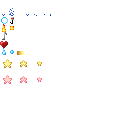
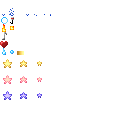
Add builder's wand, bump version to v1.0.5

Changed region(s): [[0.0, 0.7188, 0.0938, 0.7812], [0.2812, 0.7188, 0.3438, 0.7812], [0.1562, 0.7188, 0.2188, 0.7812]]

diff --git a/src/main/java/turniplabs/transfiguration/ItemBuildersWand.java b/src/main/java/turniplabs/transfiguration/ItemBuildersWand.java
@@ -1,0 +1,111 @@
+package turniplabs.transfiguration;
+
+import net.minecraft.src.*;
+import org.lwjgl.input.Keyboard;
+
+public class ItemBuildersWand extends Item {
+    public ItemBuildersWand(int i) {
+        super(i);
+    }
+
+    @Override
+    public void onUpdate(ItemStack itemstack, World world, Entity entity, int i, boolean flag) {
+        double[] firstPosition = itemstack.tag.getDoubleArray("FirstPosition");
+        double[] secondPosition = itemstack.tag.getDoubleArray("SecondPosition");
+
+        if (firstPosition.length > 0) {
+            ItemTransfigurationWand.spawnGoldenStarParticle(world, (int) firstPosition[0], (int) firstPosition[1], (int) firstPosition[2]);
+        }
+
+        if (secondPosition.length > 0) {
+            ItemColorWand.spawnRedStarParticle(world, (int) secondPosition[0], (int) secondPosition[1], (int) secondPosition[2]);
+        }
+
+    }
+
+    @Override
+    public boolean onItemUse(ItemStack itemstack, EntityPlayer entityplayer, World world, int i, int j, int k, int l, double heightPlaced) {
+        int id = world.getBlockId(i, j, k);
+        int metadata = world.getBlockMetadata(i, j, k);
+        Block block = Block.getBlock(id);
+
+        if (Keyboard.isKeyDown(Keyboard.KEY_LMENU)) {
+            itemstack.tag.setDoubleArray("SecondPosition", new double[]{i, j, k});
+        } else if (Keyboard.isKeyDown(Keyboard.KEY_LCONTROL)) {
+            double[] firstPosition = itemstack.tag.getDoubleArray("FirstPosition");
+            double[] secondPosition = itemstack.tag.getDoubleArray("SecondPosition");
+
+            int maxX = (int) Math.max(firstPosition[0], secondPosition[0]);
+            int minX = (int) Math.min(firstPosition[0], secondPosition[0]);
+            int maxY = (int) Math.max(firstPosition[1], secondPosition[1]);
+            int minY = (int) Math.min(firstPosition[1], secondPosition[1]);
+            int maxZ = (int) Math.max(firstPosition[2], secondPosition[2]);
+            int minZ = (int) Math.min(firstPosition[2], secondPosition[2]);
+
+            for (int x = minX; x <= maxX; ++x) {
+                for (int y = minY; y <= maxY; ++y) {
+                    for (int z = minZ; z <= maxZ; ++z) {
+                        world.setBlockAndMetadataWithNotify(x, y, z, id, metadata);
+                        spawnBlueStarParticle(world, x, y, z);
+                        if (block instanceof BlockMagicSand) {
+                            TileEntityMagicSand source = (TileEntityMagicSand) world.getBlockTileEntity(i, j, k);
+                            TileEntityMagicSand destination = (TileEntityMagicSand) world.getBlockTileEntity(x, y, z);
+                            destination.blockId = source.blockId;
+                            destination.blockColor = source.blockColor;
+                        }
+                    }
+                }
+            }
+        } else {
+            itemstack.tag.setDoubleArray("FirstPosition", new double[]{i, j, k});
+        }
+
+        return true;
+    }
+
+    public void spawnBlueStarParticle(World world, int i, int j, int k) {
+        double a = Math.random() - 0.5;
+        double b = Math.random() - 0.5;
+
+        double x;
+        double y;
+        double z;
+
+        if (world.getBlockId(i, j+1, k) == 0) {
+            x = a;
+            y = 0.6;
+            z = b;
+            world.spawnParticle("bluestar", i+.5 + x, j+.5 + y, k+.5 + z, 0, 0, 0);
+        }
+        if (world.getBlockId(i, j-1, k) == 0) {
+            x = a;
+            y = -0.6;
+            z = b;
+            world.spawnParticle("bluestar", i+.5 + x, j+.5 + y, k+.5 + z, 0, 0, 0);
+        }
+        if (world.getBlockId(i+1, j, k) == 0) {
+            x = 0.6;
+            y = a;
+            z = b;
+            world.spawnParticle("bluestar", i+.5 + x, j+.5 + y, k+.5 + z, 0, 0, 0);
+        }
+        if (world.getBlockId(i-1, j, k) == 0) {
+            x = -0.6;
+            y = a;
+            z = b;
+            world.spawnParticle("bluestar", i+.5 + x, j+.5 + y, k+.5 + z, 0, 0, 0);
+        }
+        if (world.getBlockId(i, j, k+1) == 0) {
+            x = a;
+            y = b;
+            z = 0.6;
+            world.spawnParticle("bluestar", i+.5 + x, j+.5 + y, k+.5 + z, 0, 0, 0);
+        }
+        if (world.getBlockId(i, j, k-1) == 0) {
+            x = a;
+            y = b;
+            z = -0.6;
+            world.spawnParticle("bluestar", i+.5 + x, j+.5 + y, k+.5 + z, 0, 0, 0);
+        }
+    }
+}

diff --git a/src/main/java/turniplabs/transfiguration/EntityBlueStarFX.java b/src/main/java/turniplabs/transfiguration/EntityBlueStarFX.java
@@ -1,0 +1,58 @@
+package turniplabs.transfiguration;
+
+import net.minecraft.src.EntityFX;
+import net.minecraft.src.Tessellator;
+import net.minecraft.src.World;
+import org.lwjgl.opengl.GL11;
+
+public class EntityBlueStarFX extends EntityFX {
+    public EntityBlueStarFX(World world, double x, double y, double z, double motionX, double motionY, double motionZ) {
+        super(world, x, y, z, motionX, motionY, motionZ);
+        this.particleMaxAge = 12;
+        this.particleScale = 2;
+        this.motionX = (Math.random() * 2.0D - 1.0D) * 0.01F;
+        this.motionY = (Math.random() * 2.0D - 1.0D) * 0.01F;
+        this.motionZ = (Math.random() * 2.0D - 1.0D) * 0.01F;
+    }
+
+    @Override
+    public float getEntityBrightness(float f) {
+        return 1f;
+    }
+
+    @Override
+    public void renderParticle(Tessellator tessellator, float f, float f1, float f2, float f3, float f4, float f5) {
+        int x = 0;
+        if (particleAge >= 3) {
+            x = 1;
+        }
+        if (particleAge >= 6) {
+            x = 2;
+        }
+        int y = 11;
+        this.particleTextureIndex = y * 16 + x * 2;
+
+        float pointX = (float)(this.particleTextureIndex % 16) / 16.0F;
+        float pointX2 = pointX + 0.0624375F * 2;
+        float pointY = (float)(this.particleTextureIndex / 16) / 16.0F;
+        float pointY2 = pointY + 0.0624375F * 2;
+        float scale = 0.1F * this.particleScale;
+        float posX = (float)(this.prevPosX + (this.posX - this.prevPosX) * (double)f - interpPosX);
+        float posY = (float)(this.prevPosY + (this.posY - this.prevPosY) * (double)f - interpPosY);
+        float posZ = (float)(this.prevPosZ + (this.posZ - this.prevPosZ) * (double)f - interpPosZ);
+        float opacity = 1f;
+        if (particleAge >= 9) {
+            opacity = (float)(particleMaxAge - particleAge) / 3f;
+        }
+
+        GL11.glEnable(GL11.GL_BLEND);
+        GL11.glBlendFunc(GL11.GL_SRC_ALPHA, GL11.GL_ONE_MINUS_SRC_ALPHA);
+
+        tessellator.setColorRGBA_F(this.particleRed, this.particleGreen, this.particleBlue, opacity);
+        tessellator.addVertexWithUV(posX - f1 * scale - f4 * scale, posY - f2 * scale, posZ - f3 * scale - f5 * scale, pointX2, pointY2);
+        tessellator.addVertexWithUV(posX - f1 * scale + f4 * scale, posY + f2 * scale, posZ - f3 * scale + f5 * scale, pointX2, pointY);
+        tessellator.addVertexWithUV(posX + f1 * scale + f4 * scale, posY + f2 * scale, posZ + f3 * scale + f5 * scale, pointX, pointY);
+        tessellator.addVertexWithUV(posX + f1 * scale - f4 * scale, posY - f2 * scale, posZ + f3 * scale - f5 * scale, pointX, pointY2);
+    }
+
+}

diff --git a/src/main/java/turniplabs/transfiguration/Transfiguration.java b/src/main/java/turniplabs/transfiguration/Transfiguration.java
@@ -21,6 +21,7 @@ public class Transfiguration implements ModInitializer {
     }
     public static final Item transfigurationWand = ItemHelper.createItem(MOD_ID, new ItemTransfigurationWand(1500), "transfigurationwand", "transfiguration_wand.png");
     public static final Item colorWand = ItemHelper.createItem(MOD_ID, new ItemColorWand(1501), "colorwand", "color_wand.png");
+    public static final Item buildersWand = ItemHelper.createItem(MOD_ID, new ItemBuildersWand(1502), "builderswand", "builders_wand.png");
 
     @Override
     public void onInitialize() {
@@ -28,6 +29,7 @@ public class Transfiguration implements ModInitializer {
         EntityHelper.createTileEntity(TileEntityMagicSand.class, "Magic");
         ParticleHelper.createParticle(EntityGoldenStarFX.class, "goldenstar");
         ParticleHelper.createParticle(EntityRedStarFX.class, "redstar");
+        ParticleHelper.createParticle(EntityBlueStarFX.class, "bluestar");
 
         RecipeHelper.Crafting.createRecipe(transfigurationWand, 1, new Object[]{"#N#", "NGN", "SN#", 'G', Item.dustGlowstone, 'N', Item.nuggetGold, 'S', Item.stick});
         RecipeHelper.Crafting.createRecipe(colorWand, 1, new Object[]{"#R#", "GDO", "SL#", 'R', Item.dustRedstone, 'G', Item.dustGlowstone, 'D', Item.diamond, 'O', Item.olivine, 'L', new ItemStack(Item.dye, 1, 4), 'S', Item.stick});

diff --git a/src/main/java/turniplabs/transfiguration/ItemTransfigurationWand.java b/src/main/java/turniplabs/transfiguration/ItemTransfigurationWand.java
@@ -2,9 +2,6 @@ package turniplabs.transfiguration;
 
 import net.minecraft.src.*;
 import org.lwjgl.input.Keyboard;
-import org.lwjgl.opengl.GL11;
-
-import java.awt.event.KeyEvent;
 
 public class ItemTransfigurationWand extends Item {
     public ItemTransfigurationWand(int i) {
@@ -25,7 +22,7 @@ public class ItemTransfigurationWand extends Item {
             } else {
                 tileEntity.blockId = itemstack.tag.getInteger("BlockId");
                 for (int a = 0; a < 10; ++a) {
-                    spawnStarParticle(world, i, j, k);
+                    spawnGoldenStarParticle(world, i, j, k);
                 }
                 world.playSoundEffect(i+.5, j+.5, k+.5, "step.snow", 1f, 1f);
                 world.markBlockAsNeedsUpdate(i, j, k);
@@ -42,7 +39,7 @@ public class ItemTransfigurationWand extends Item {
         return false;
     }
 
-    public void spawnStarParticle(World world, int i, int j, int k) {
+    public static void spawnGoldenStarParticle(World world, int i, int j, int k) {
         double a = Math.random() - 0.5;
         double b = Math.random() - 0.5;
 

diff --git a/src/main/java/turniplabs/transfiguration/ItemColorWand.java b/src/main/java/turniplabs/transfiguration/ItemColorWand.java
@@ -22,7 +22,7 @@ public class ItemColorWand extends Item {
             } else {
                 tileEntity.blockColor = itemstack.tag.getInteger("BlockColor");
                 for (int a = 0; a < 10; ++a) {
-                    spawnStarParticle(world, i, j, k);
+                    spawnRedStarParticle(world, i, j, k);
                 }
                 world.playSoundEffect(i+.5, j+.5, k+.5, "step.snow", 1f, 1f);
                 world.markBlockAsNeedsUpdate(i, j, k);
@@ -36,7 +36,7 @@ public class ItemColorWand extends Item {
         }
     }
 
-    public void spawnStarParticle(World world, int i, int j, int k) {
+    public static void spawnRedStarParticle(World world, int i, int j, int k) {
         double a = Math.random() - 0.5;
         double b = Math.random() - 0.5;
 
